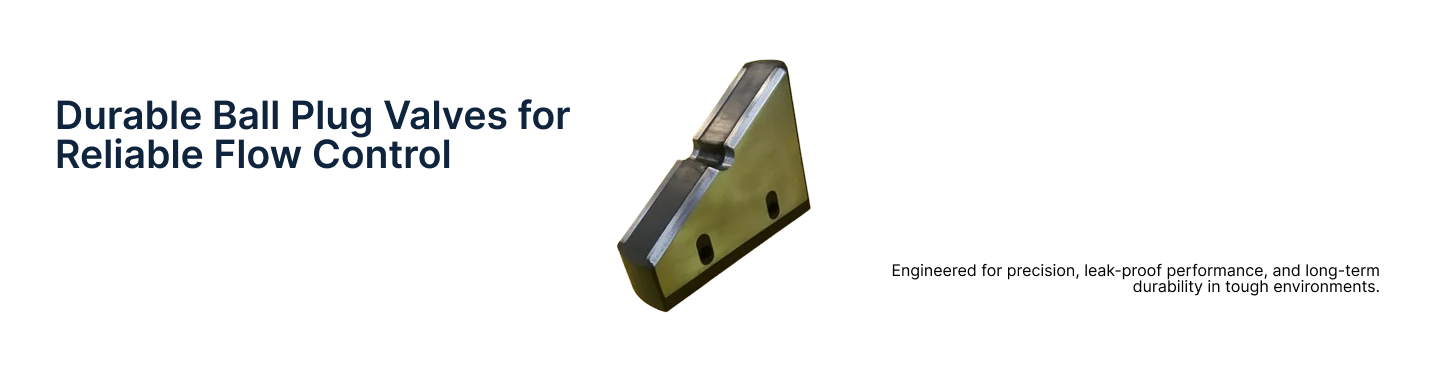
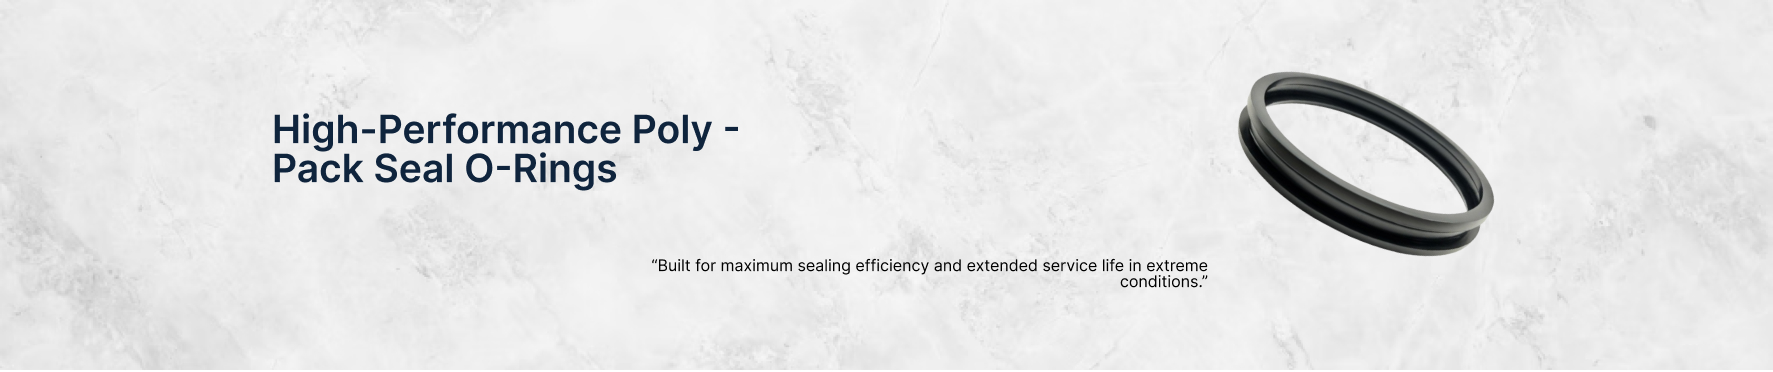
(update):home ui updated

diff --git a/frontend/app/components/Banner.jsx b/frontend/app/components/Banner.jsx
@@ -25,7 +25,7 @@ const Banner = () => {
             slidesPerView={1}
             autoplay={{ delay: 3000 }}
             loop
-            className="h-full"
+            className="h-full w-full "
           >
             <SwiperSlide>
               <picture>
@@ -36,7 +36,7 @@ const Banner = () => {
                 <img
                   src="/images/banner/banner4.jpg"
                   alt="packer banner"
-                  className="h-full w-full md:object-contain"
+                  className="h-full w-full md:object-cover"
                 />
               </picture>
             </SwiperSlide>
@@ -49,7 +49,7 @@ const Banner = () => {
                 <img
                   src="/images/banner/banner2.jpg"
                   alt="o ring banner"
-                  className="h-full w-full object-center md:object-contain"
+                  className="h-full w-full object-center md:object-cover"
                 />
               </picture>
             </SwiperSlide>
@@ -62,7 +62,7 @@ const Banner = () => {
                 <img
                   src="/images/banner/banner3.jpg"
                   alt="ball plug valve banner"
-                  className="h-full w-full object-center md:object-contain"
+                  className="h-full w-full object-center md:object-cover"
                 />
               </picture>
             </SwiperSlide>

diff --git a/frontend/app/globals.css b/frontend/app/globals.css
@@ -77,24 +77,10 @@ body {
 
 .bg-pattern {
   @apply py-[2rem] lg:py-[3.5rem];
-  --s: 228px; /* control the size*/
-  --c1: #e3e3e3;
-  --c2: #d6d6d6;
-  --c3: #ebebeb;
-  color: var(--secondary--text);
-  background: repeating-conic-gradient(
-        from 30deg,
-        #0000 0 120deg,
-        var(--c3) 0 50%
-      )
-      calc(var(--s) / 2) calc(var(--s) * tan(30deg) / 2),
-    repeating-conic-gradient(
-      from 30deg,
-      var(--c1) 0 60deg,
-      var(--c2) 0 120deg,
-      var(--c3) 0 50%
-    );
-  background-size: var(--s) calc(var(--s) * tan(30deg));
+  background-image: url("/images/banner/background-section.jpg");
+  background-size: cover;
+  background-position: center;
+  background-repeat: no-repeat;
 }
 
 .section--footer {

diff --git a/frontend/app/components/Highlights.jsx b/frontend/app/components/Highlights.jsx
@@ -25,7 +25,7 @@ const Highlights = () => {
                 <div className="text1--highlight-box lg:text-[1.2rem] xl:text-[1.6rem] font-medium text-center leading-[1.8rem] mt-auto">
                   {highlight.title}
                 </div>
-                <div className="lg:text-[1.2rem] leading-[1.4rem] lg:leading-[1.6rem] w-[90%] mx-auto text-center">
+                <div className="text1--highlight-box lg:text-[1.2rem] leading-[1.4rem] lg:leading-[1.6rem] w-[90%] mx-auto text-center ">
                   {highlight.description}
                 </div>
               </div>
